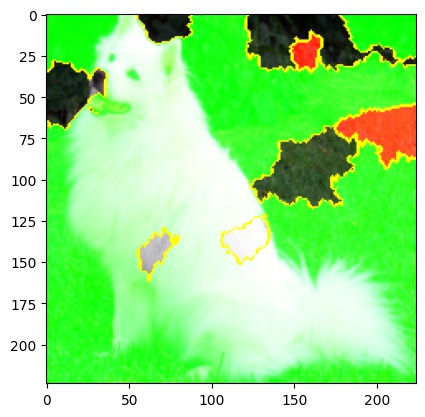
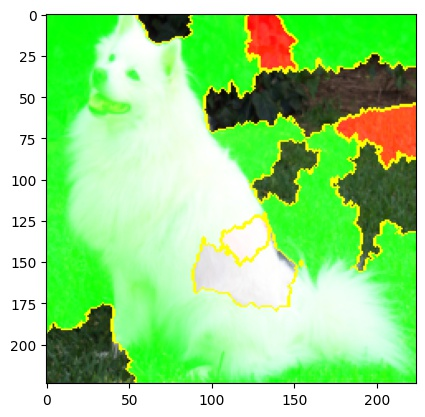
fixed typo in plot

diff --git a/runner.py b/runner.py
@@ -165,9 +165,9 @@ def evaluate_lime(lime_explanation, input_image, model, categories, image_name, 
 
 if __name__ == '__main__':
     # setting vars
-    image_path = "data/junco.jpeg"
-    image_name = "junco"
-    label_name = "junco"
+    image_path = "data/samoyed.jpg"
+    image_name = "samoyed"
+    label_name = "Samoyed"
     explanation_norm_type = "none"
     path = './outputs/results_' + image_name + '_' + explanation_norm_type + '.txt'
 
